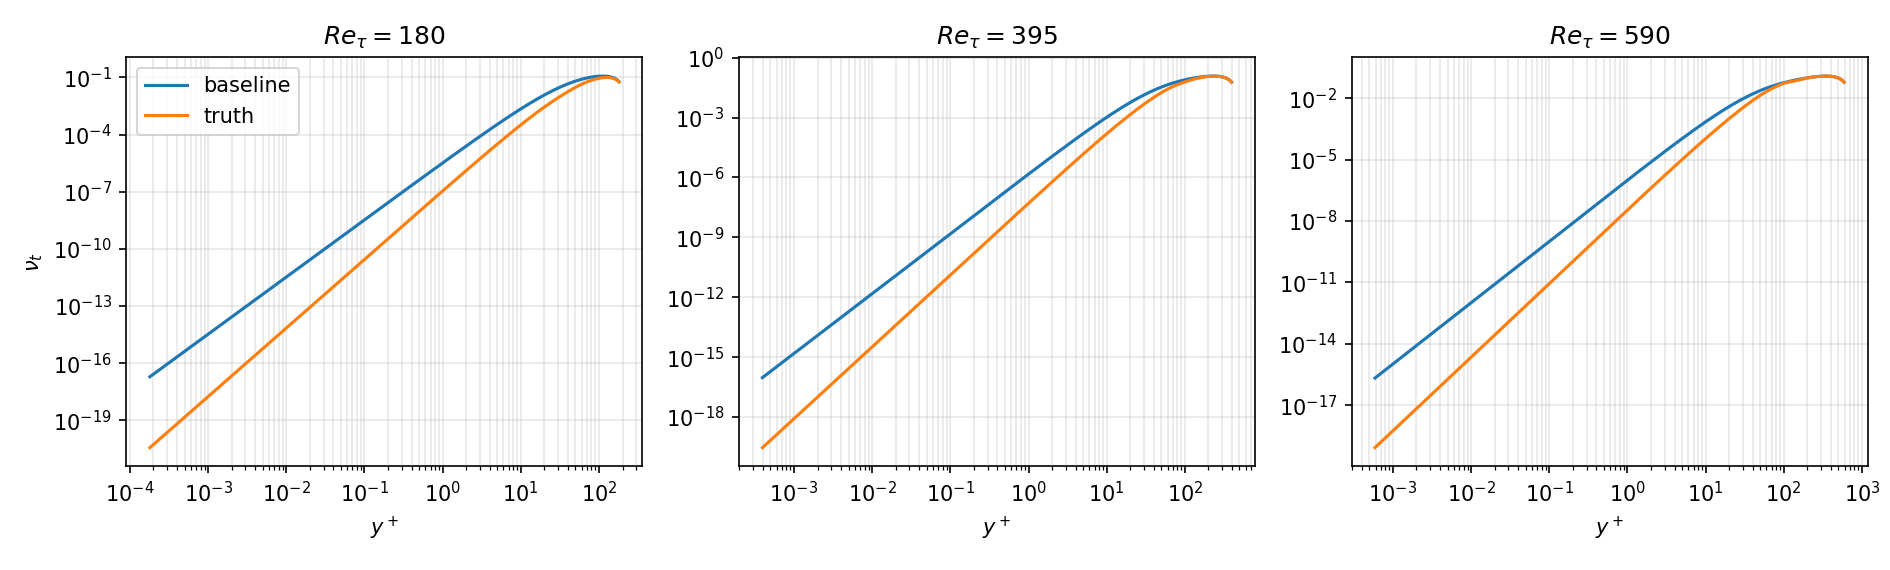
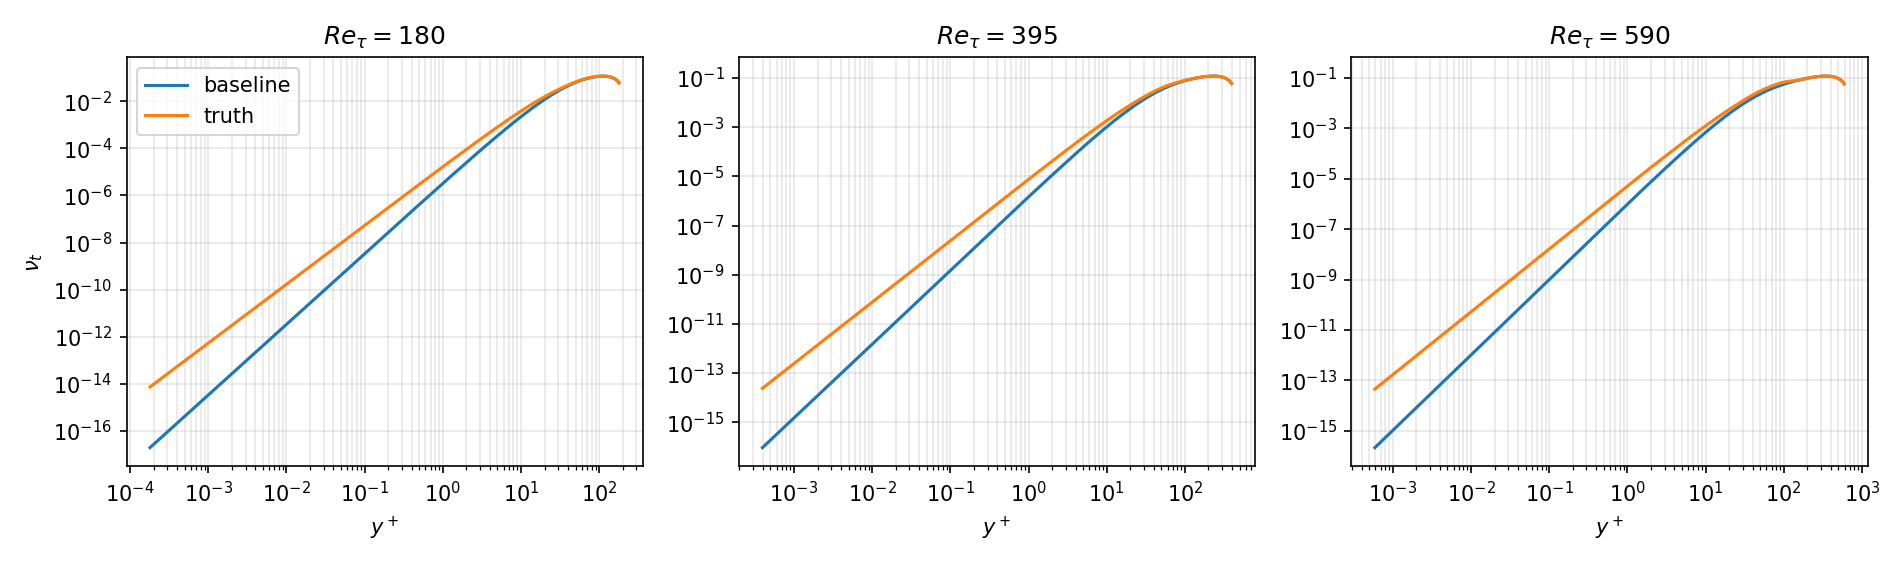
feat(rans-demo): add the coupling solver with under-relaxed fixed point
T2 of #3. Given any Closure, iterate nu_t to a fixed point and integrate the
total-stress relation for U(y). The loop is real only because a learned closure
may depend on the local shear, which is what ADR-0001 bought.

Convergence requires the whole residual history non-increasing *and* the step
below tol, so an oscillation or a limit cycle stays unconverged and has to be
reported rather than dressed up as the last iterate.

Also fixes a physics error found while building this: the synthetic truth's
near-wall deviation had been a van Driest constant of 45 against the physical
26, which put the truth ~50% above channel DNS while the baseline sat ~8% above
it -- a 'reference' far worse than the model under test. The deviation is now
the damping exponent alone, below 2 rather than above, which lands the truth at
-3% to -6% and leaves the baseline as the model with something to correct.

diff --git a/tests/test_rans_solver.py b/tests/test_rans_solver.py
@@ -1,0 +1,145 @@
+"""The coupling solver: fixed point on ``nu_t``, then a quadrature for ``U``.
+
+The seam is :func:`solve_channel` -- a closure in, a converged profile (or an
+honest refusal) out.  Nothing here reaches inside the iteration; the tests pin
+the physics the solver claims and the failure mode it must not hide.
+"""
+
+from typing import Optional
+
+import numpy as np
+import torch
+
+from RANS_PINN_Demo.closure import TruthClosure
+from RANS_PINN_Demo.solver import solve_channel, wall_clustered_grid
+
+
+class ConstantEddyViscosity:
+    """A prescribed closure that ignores ``shear`` -- converges in one step."""
+
+    def __init__(self, value: float):
+        self.value = value
+
+    def __call__(self, y: torch.Tensor, Re_tau: float, shear: Optional[torch.Tensor] = None):
+        return torch.full_like(y, self.value)
+
+
+def test_solver_matches_the_analytic_profile_for_a_constant_eddy_viscosity():
+    """With ``nu_t`` constant the momentum equation integrates in closed form.
+
+        U(y) = u_tau**2 * (y - y**2 / 2) / (nu + nu_t)
+
+    The integrand is linear in ``y``, and the trapezoid rule is exact for linear
+    integrands, so this is an equality claim, not a tolerance choice.
+    """
+    nu_t_c = 0.05
+    Re_tau = 395.0
+    nu = 1.0 / Re_tau
+
+    result = solve_channel(ConstantEddyViscosity(nu_t_c), Re_tau)
+    expected = (result.y - result.y**2 / 2.0) / (nu + nu_t_c)
+
+    assert result.converged
+    assert torch.allclose(result.U, expected, rtol=1e-10, atol=1e-12)
+
+class ShearDependentEddyViscosity:
+    """``nu_t = base + eps * S+``: only solvable by iterating.
+
+    Positive ``eps`` closes a loop -- more ``nu_t`` means less shear means less
+    ``nu_t`` -- which contracts for small ``eps`` and diverges for large.
+    """
+
+    def __init__(self, base: float = 0.05, eps: float = 1e-3):
+        self.base = base
+        self.eps = eps
+
+    def __call__(self, y: torch.Tensor, Re_tau: float, shear: Optional[torch.Tensor] = None):
+        s = torch.zeros_like(y) if shear is None else shear
+        return torch.full_like(y, self.base) + self.eps * s
+
+
+def _shear_plus_from(nu_t: torch.Tensor, y: torch.Tensor, Re_tau: float) -> torch.Tensor:
+    """``dU+/dy+`` implied by ``nu_t``, straight from the total-stress relation.
+
+    Derived here rather than imported so the fixed-point check does not lean on
+    the solver's own arithmetic.
+    """
+    nu = 1.0 / Re_tau
+    return ((1.0 - y) / (nu + nu_t)) / Re_tau
+
+
+def test_a_shear_dependent_closure_is_iterated_to_a_fixed_point():
+    """The loop must be real: with a shear-dependent closure the answer has to
+    satisfy ``nu_t = F(y, S+(nu_t))``, which one quadrature cannot produce."""
+    closure = ShearDependentEddyViscosity()
+    Re_tau = 395.0
+
+    result = solve_channel(closure, Re_tau, alpha=1.0, tol=1e-12)
+
+    assert result.converged
+    assert result.iterations > 1
+    shear = _shear_plus_from(result.nu_t, result.y, Re_tau)
+    assert torch.allclose(closure(result.y, Re_tau, shear=shear), result.nu_t, atol=1e-12)
+
+
+def test_the_reported_residual_history_is_monotone_on_a_converged_solve():
+    result = solve_channel(ShearDependentEddyViscosity(), 395.0, tol=1e-12)
+    assert result.converged
+    assert all(b <= a for a, b in zip(result.residual, result.residual[1:]))
+
+
+def test_under_relaxation_buys_iterations():
+    closure = ShearDependentEddyViscosity(eps=1e-4)
+    full = solve_channel(closure, 395.0, alpha=1.0, tol=1e-14)
+    damped = solve_channel(closure, 395.0, alpha=0.5, tol=1e-14)
+    assert full.converged and damped.converged
+    assert damped.iterations > full.iterations
+
+
+class AntiDampedEddyViscosity:
+    """``nu_t = base - k * S+``: positive feedback, and no fixed point.
+
+    More ``nu_t`` means less shear means *more* ``nu_t``.  Unlike a positive
+    coefficient -- whose eigenvalue approaches -1 from below and so never truly
+    diverges -- this form has no real fixed point for large ``k``.  It is the
+    shape of failure H3 has to be able to report.
+    """
+
+    def __init__(self, base: float = 0.05, k: float = 5.0):
+        self.base = base
+        self.k = k
+
+    def __call__(self, y: torch.Tensor, Re_tau: float, shear: Optional[torch.Tensor] = None):
+        s = torch.zeros_like(y) if shear is None else shear
+        return torch.full_like(y, self.base) - self.k * s
+
+
+def test_a_diverging_coupling_is_reported_not_hidden():
+    """H3 is the claim that the frozen correction does not diverge; a solver
+    that cannot say "this diverged" cannot support it."""
+    result = solve_channel(AntiDampedEddyViscosity(), 395.0, alpha=1.0, tol=1e-10, max_iter=60)
+
+    assert not result.converged
+    assert result.iterations == 60
+    # ...and the history must show it rather than looking like a settled solve.
+    assert not (result.residual[-1] < result.residual[0])
+
+def test_the_default_grid_resolves_a_real_eddy_viscosity_profile():
+    """``nu_t`` spans four decades between the wall and the centre, so "the
+    answer" is grid-dependent and the grid has to be defended.
+
+    The reference is the same physics on a far finer grid rather than a recorded
+    number, so this stays a statement about resolution and not about one output.
+    """
+    truth = TruthClosure()
+    Re_tau = 590.0
+
+    coarse = solve_channel(truth, Re_tau)
+    fine = solve_channel(truth, Re_tau, y=wall_clustered_grid(n=20001))
+
+    assert coarse.converged and fine.converged
+    reference = np.interp(
+        coarse.y.numpy().ravel(), fine.y.numpy().ravel(), fine.U.numpy().ravel()
+    )
+    gap = np.linalg.norm(coarse.U.numpy().ravel() - reference) / np.linalg.norm(reference)
+    assert gap < 1e-4

diff --git a/RANS_PINN_Demo/solver.py b/RANS_PINN_Demo/solver.py
@@ -1,0 +1,131 @@
+"""The coupling solver: a fixed point on ``nu_t``, then a quadrature for ``U``.
+
+Non-dimensionalisation is the same as :mod:`RANS_PINN_Demo.closure`: ``h = 1``,
+``u_tau = 1``, ``nu = 1 / Re_tau``.  Integrating the total-stress relation from
+the wall gives
+
+    dU/dy = u_tau**2 * (1 - y/h) / (nu + nu_t)
+
+so ``U`` is a cumulative quadrature *once ``nu_t`` is known*.  The fixed point
+is needed because a learned closure may depend on the local shear, which depends
+on ``U``, which depends on ``nu_t``: a closure that depends only on ``y`` would
+make this loop a fiction, and the loop is the thing H3 is about (see
+``docs/adr/0001-solver-in-the-loop-training.md``).
+"""
+
+from __future__ import annotations
+
+import math
+from dataclasses import dataclass, field
+from typing import List, Optional
+
+import torch
+
+from .closure import Closure
+
+__all__ = ["SolveResult", "solve_channel", "wall_clustered_grid", "U_TAU", "H"]
+
+U_TAU = 1.0
+H = 1.0
+
+
+
+
+@dataclass
+class SolveResult:
+    """Everything the caller needs to judge the solve, not just the answer."""
+
+    y: torch.Tensor
+    U: torch.Tensor
+    nu_t: torch.Tensor
+    iterations: int
+    converged: bool
+    #: ``max|F(nu_t) - nu_t|`` per iteration, before relaxation.
+    residual: List[float] = field(default_factory=list)
+    #: ``max|nu_t_next - nu_t|`` per iteration -- this is what ``tol`` bounds.
+    change: List[float] = field(default_factory=list)
+
+
+def wall_clustered_grid(n: int = 801, dtype: torch.dtype = torch.float64) -> torch.Tensor:
+    """``y = t**2``: quadratic clustering at the wall, where ``nu_t`` and
+    ``dU/dy`` both change fastest."""
+    t = torch.linspace(0.0, 1.0, n, dtype=dtype)
+    return (t**2).reshape(-1, 1)
+
+
+def _cumulative_trapezoid(f: torch.Tensor, y: torch.Tensor) -> torch.Tensor:
+    """``int_0^y f`` at each grid point, with the value at ``y = 0`` fixed at 0."""
+    dy = y[1:] - y[:-1]
+    segments = 0.5 * (f[1:] + f[:-1]) * dy
+    out = torch.zeros_like(f)
+    out[1:] = torch.cumsum(segments, dim=0)
+    return out
+
+
+def _shear_from(nu_t: torch.Tensor, y: torch.Tensor, Re_tau: float) -> torch.Tensor:
+    """Wall-unit mean shear ``dU+/dy+`` implied by the current ``nu_t``."""
+    nu = 1.0 / Re_tau
+    dU_dy = U_TAU**2 * (1.0 - y / H) / (nu + nu_t)
+    return dU_dy / Re_tau
+
+
+def _is_monotone_decreasing(residual: List[float]) -> bool:
+    """True when the whole residual history is non-increasing.
+
+    A small relative slack absorbs round-off.  Requiring the *whole* history,
+    not just the last few steps, is the point: a shrinking step size on its own
+    must never be mistaken for convergence, so an iteration that ever grew --
+    an oscillation, a limit cycle -- stays unconverged and has to be reported.
+    """
+    return all(b <= a * (1.0 + 1e-6) for a, b in zip(residual, residual[1:]))
+
+
+def solve_channel(
+    closure: Closure,
+    Re_tau: float,
+    y: Optional[torch.Tensor] = None,
+    alpha: float = 1.0,
+    tol: float = 1e-10,
+    max_iter: int = 200,
+) -> SolveResult:
+    """Iterate ``nu_t`` to a fixed point, then integrate the profile.
+
+    ``alpha`` is the under-relaxation factor: ``1.0`` takes the closure's full
+    step, smaller values damp it.  ``converged`` is False whenever the iteration
+    ran out of budget *or* the residual never settled -- the caller is never
+    handed the last iterate dressed up as an answer.
+    """
+    if not 0.0 < alpha <= 1.0:
+        raise ValueError(f"alpha must be in (0, 1], got {alpha}")
+
+    if y is None:
+        y = wall_clustered_grid()
+    y = y.to(torch.float64)
+
+    nu_t = closure(y, Re_tau).to(torch.float64)
+    residual: List[float] = []
+    change: List[float] = []
+    converged = False
+
+    for _ in range(max_iter):
+        target = closure(y, Re_tau, shear=_shear_from(nu_t, y, Re_tau)).to(torch.float64)
+        step = target - nu_t
+        residual.append(float(step.abs().max()))
+        step = alpha * step
+        change.append(float(step.abs().max()))
+        nu_t = nu_t + step
+        if change[-1] < tol and _is_monotone_decreasing(residual):
+            converged = True
+            break
+
+    nu = 1.0 / Re_tau
+    dU_dy = U_TAU**2 * (1.0 - y / H) / (nu + nu_t)
+    return SolveResult(
+        y=y,
+        U=_cumulative_trapezoid(dU_dy, y),
+        nu_t=nu_t,
+        iterations=len(residual),
+        converged=converged,
+        residual=residual,
+        change=change,
+    )

diff --git a/RANS_PINN_Demo/closure.py b/RANS_PINN_Demo/closure.py
@@ -33,12 +33,17 @@ A_PLUS = 26.0
 #: the mixing-length term ``y (1 - y)`` vanishes but the real profile does not.
 C_CORE = 0.06
 
-#: The truth's damping law differs from the baseline's in *both* of its
-#: parameters.  The exponent is what breaks the ``y**3`` asymptote; the constant
-#: sets how far out the damping keeps biting.  Changing only the exponent moves
-#: a sliver of the profile and a fit could hide it.
-TRUTH_DAMPING_A_PLUS = 45.0
-TRUTH_DAMPING_EXPONENT = 2.6
+#: The truth's near-wall damping exponent.  The baseline's exponent of 2 is what
+#: produces its ``y**3`` asymptote, so a different exponent breaks that
+#: asymptote while leaving the (standard, physical) van Driest constant alone.
+#:
+#: It sits *below* 2 on purpose, and the reason is physical rather than
+#: aesthetic: the baseline already over-predicts ``U+`` by about 8% against
+#: channel DNS, i.e. its ``nu_t`` is too small near the wall, so a reference
+#: worth correcting towards has to carry *more* near-wall eddy viscosity.  An
+#: exponent above 2 goes the other way and lands ~50% away from DNS -- a
+#: "truth" no correction should be chasing.
+TRUTH_DAMPING_EXPONENT = 1.5
 
 #: Fractional drift of the log-layer slope per e-fold of ``Re_tau`` away from
 #: ``TRUTH_KAPPA_REF``.
@@ -131,8 +136,8 @@ class TruthClosure:
     Two deviations from the baseline, each switchable, each deliberately one a
     constant multiplier cannot absorb:
 
-    * ``near_wall_deviation`` gives the truth a different damping law, which
-      breaks the ``y**3`` asymptote the baseline's exponent of 2 produces.
+    * ``near_wall_deviation`` gives the truth a different damping exponent,
+      which breaks the ``y**3`` asymptote the baseline's exponent of 2 produces.
     * ``log_layer_deviation`` lets the log-layer slope drift with ``Re_tau``,
       windowed to the log layer so it is a change of *shape*, not of scale.
 
@@ -144,14 +149,12 @@ class TruthClosure:
         self,
         near_wall_deviation: bool = True,
         log_layer_deviation: bool = True,
-        damping_a_plus: float = TRUTH_DAMPING_A_PLUS,
         damping_exponent: float = TRUTH_DAMPING_EXPONENT,
         kappa_drift: float = TRUTH_KAPPA_DRIFT,
         kappa_ref: float = TRUTH_KAPPA_REF,
     ):
         self.near_wall_deviation = near_wall_deviation
         self.log_layer_deviation = log_layer_deviation
-        self.damping_a_plus = damping_a_plus
         self.damping_exponent = damping_exponent
         self.kappa_drift = kappa_drift
         self.kappa_ref = kappa_ref
@@ -173,14 +176,9 @@ class TruthClosure:
         shear: Optional[torch.Tensor] = None,
     ) -> torch.Tensor:
         y_plus = y * Re_tau
-        if self.near_wall_deviation:
-            a_plus = self.damping_a_plus
-            exponent = self.damping_exponent
-        else:
-            a_plus = A_PLUS
-            exponent = BASELINE_DAMPING_EXPONENT
+        exponent = self.damping_exponent if self.near_wall_deviation else BASELINE_DAMPING_EXPONENT
         return _mixing_shape(y, self._effective_kappa(y_plus, Re_tau)) * _damping(
-            y_plus, exponent=exponent, a_plus=a_plus
+            y_plus, exponent=exponent
         )
 
     def _effective_kappa(self, y_plus: torch.Tensor, Re_tau: float):

diff --git a/tests/test_rans_closure.py b/tests/test_rans_closure.py
@@ -12,6 +12,7 @@ import math
 import torch
 
 from RANS_PINN_Demo.closure import KAPPA, BaselineClosure, TruthClosure
+from RANS_PINN_Demo.solver import solve_channel
 
 RE_TAU_TRAIN = (180.0, 395.0)
 RE_TAU_TEST = 590.0
@@ -88,7 +89,7 @@ def test_truth_breaks_the_near_wall_y_cubed_asymptote():
     baseline = _near_wall_log_log_slope(BaselineClosure(), 395.0)
     truth = _near_wall_log_log_slope(TruthClosure(log_layer_deviation=False), 395.0)
     assert abs(baseline - 3.0) < 0.05
-    assert truth > baseline + 0.3
+    assert abs(truth - 3.0) > 0.3
 
 
 def test_log_layer_deviation_is_inert_at_the_reference_reynolds_number():
@@ -155,3 +156,19 @@ def test_closure_comparison_draws_one_panel_per_reynolds_number():
         assert all(len(ax.lines) == 2 for ax in axes)
     finally:
         plt.close(fig)
+
+def test_the_truth_stays_a_plausible_reference_profile():
+    """The synthetic truth stands in for high-fidelity data, so it has to be a
+    profile a correction could plausibly be chasing.
+
+    An early choice of the near-wall exponent put the truth ~50% above channel
+    DNS while the baseline sat ~8% above it -- i.e. the "reference" was far
+    worse than the model under test, which inverts the whole argument.  This is
+    the guard for that: the gap has to be a correction's worth, not a rewrite.
+    """
+    baseline = BaselineClosure()
+    truth = TruthClosure()
+    for Re_tau in (180.0, 395.0, 590.0):
+        U_base = solve_channel(baseline, Re_tau).U[-1].item()
+        U_truth = solve_channel(truth, Re_tau).U[-1].item()
+        assert abs(U_truth - U_base) / U_base < 0.25

diff --git a/RANS_PINN_Demo/__init__.py b/RANS_PINN_Demo/__init__.py
@@ -11,5 +11,13 @@ interchangeable under ablation, coupling and evaluation.
 """
 
 from .closure import BaselineClosure, Closure, TruthClosure
+from .solver import SolveResult, solve_channel, wall_clustered_grid
 
-__all__ = ["Closure", "BaselineClosure", "TruthClosure"]
+__all__ = [
+    "Closure",
+    "BaselineClosure",
+    "TruthClosure",
+    "SolveResult",
+    "solve_channel",
+    "wall_clustered_grid",
+]
